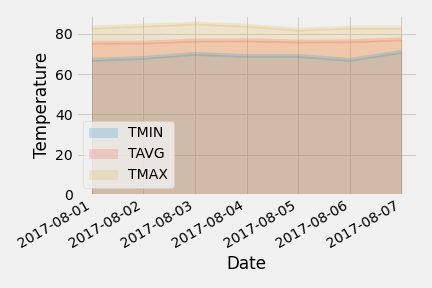
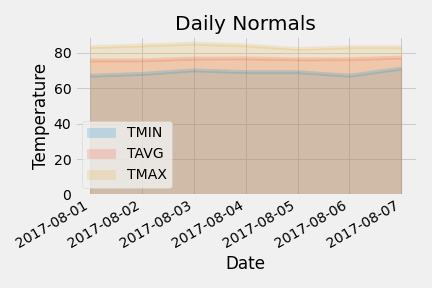
corrected some code

diff --git a/README.md b/README.md
@@ -21,8 +21,8 @@ There are a total of 9 stations that have been included in this study. The most 
 
 More results have been stored in app.py for queries
 
-### Daily Rainfall Average
-The planned trip's daily rainfall average has been calculated and ploted.<br/>
+### Daily Normals (Highest, Lowest and Average Temperature)
+The planned trip's daily temperature average has been calculated and ploted.<br/>
 ![daily_normals.png](Output/daily_normals.png)
 
 ### Paired versus Unpaired t-test 
